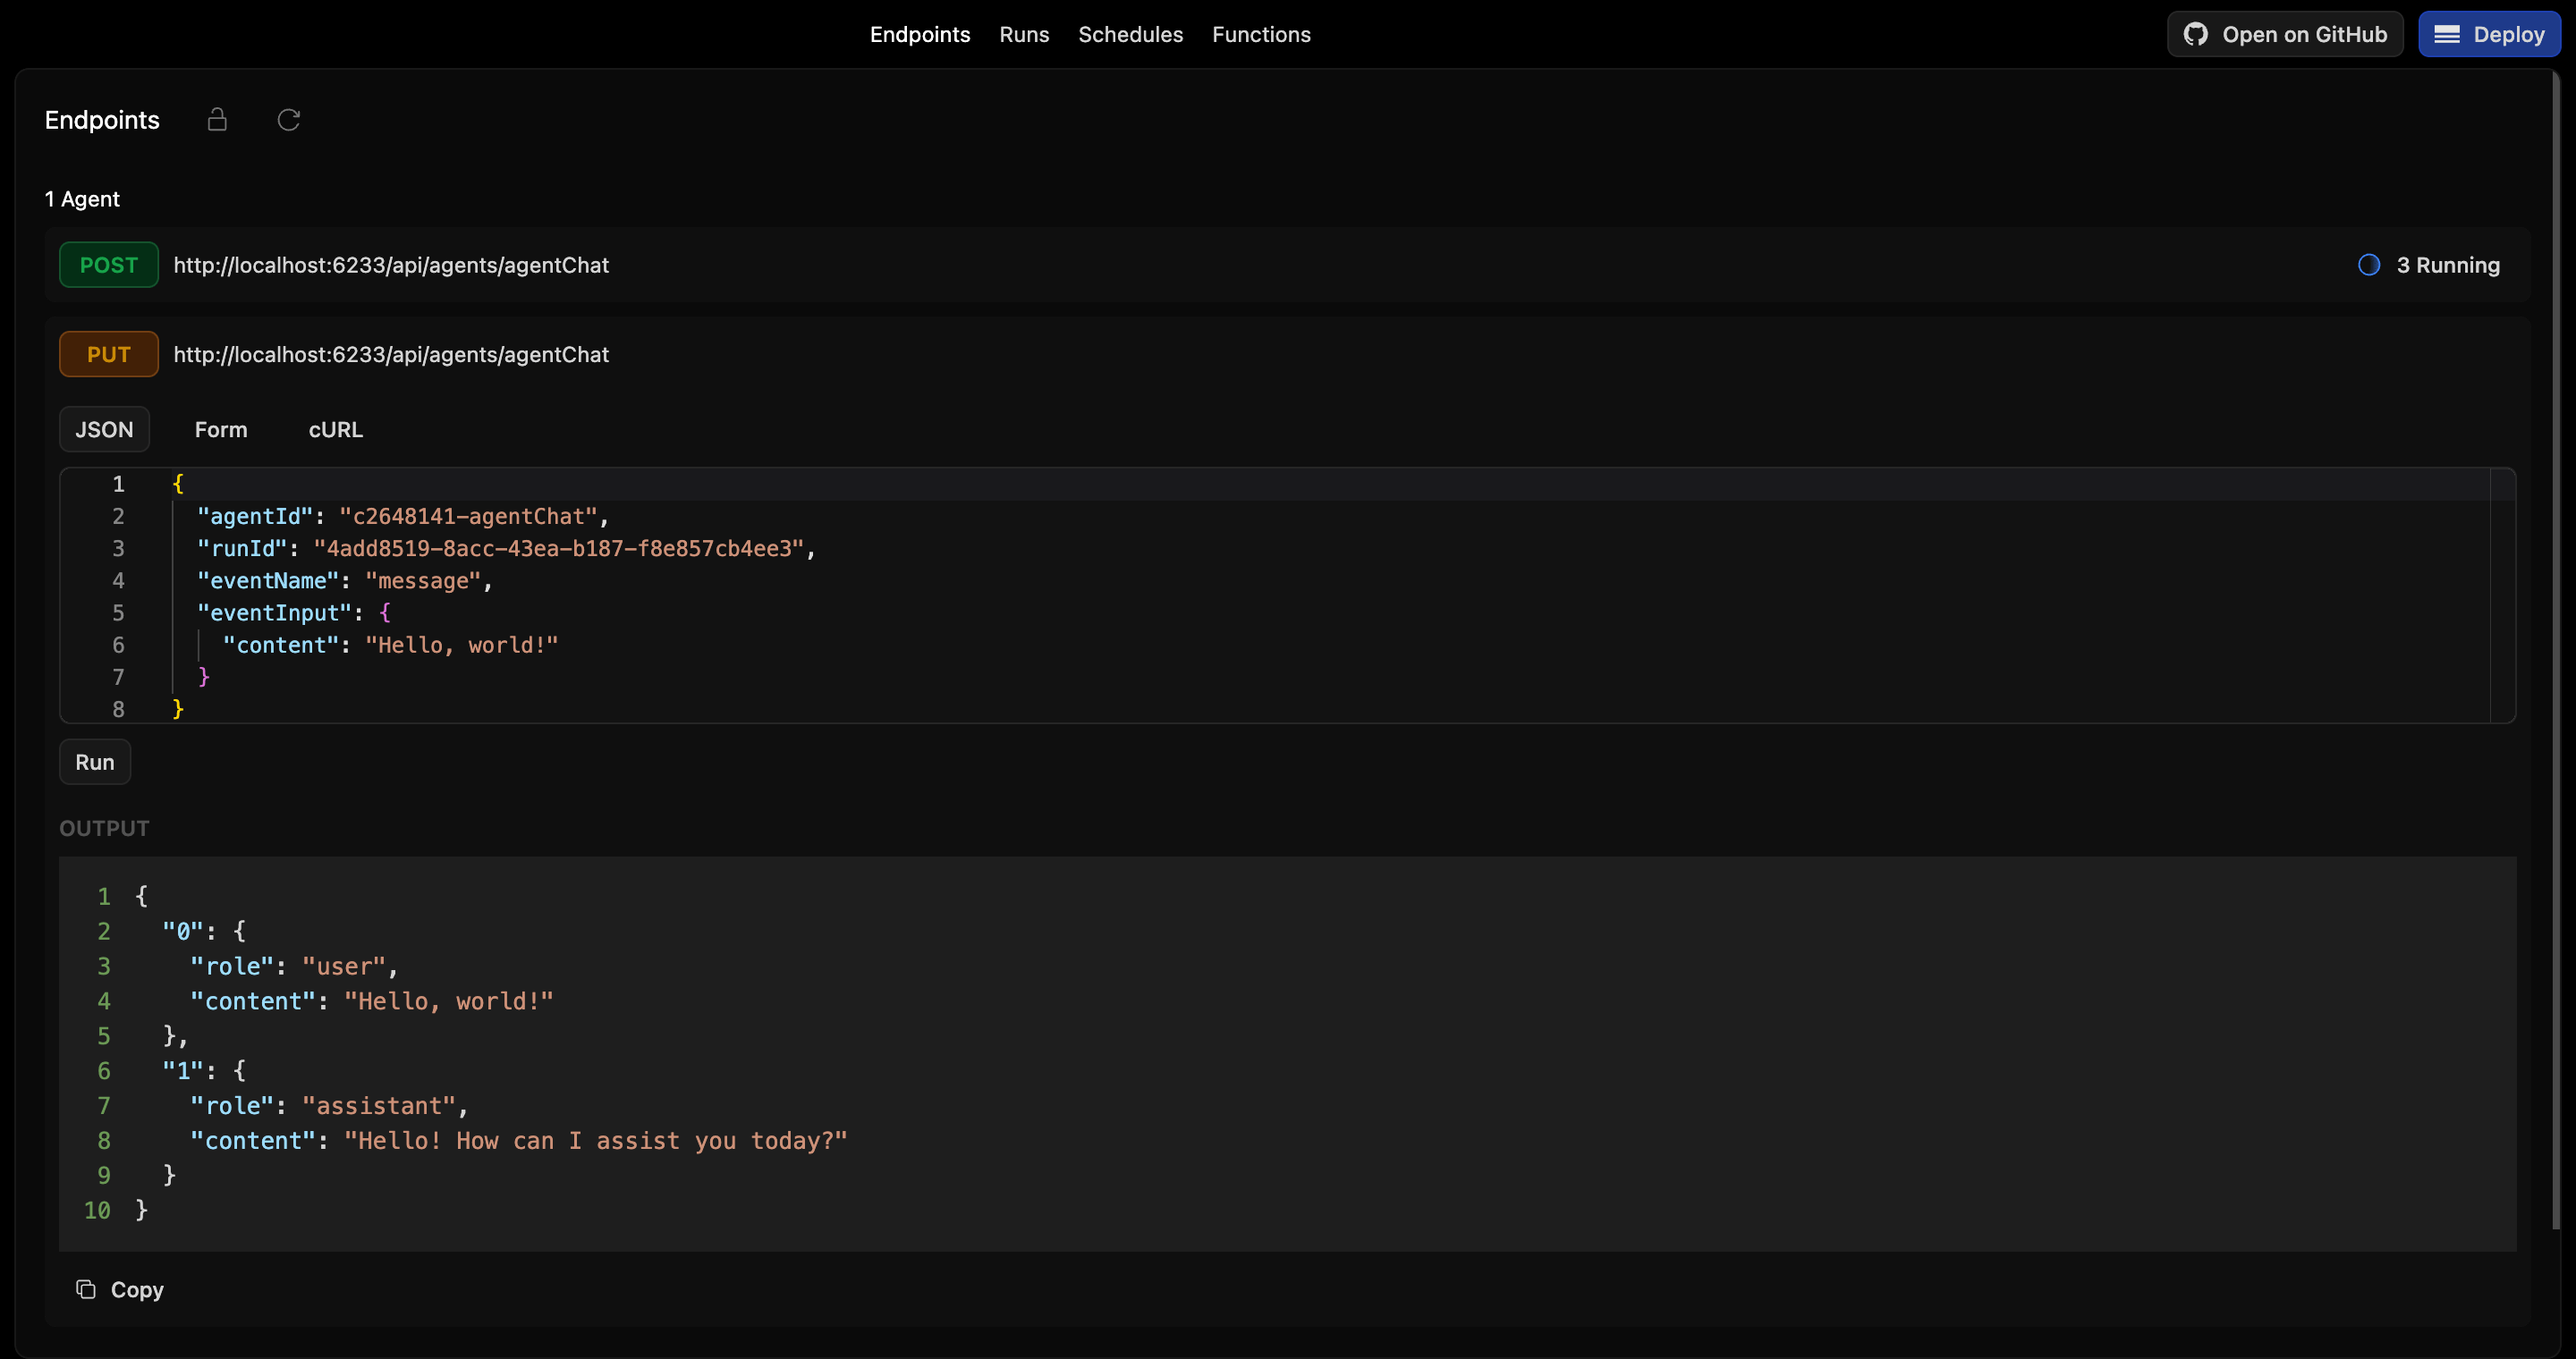
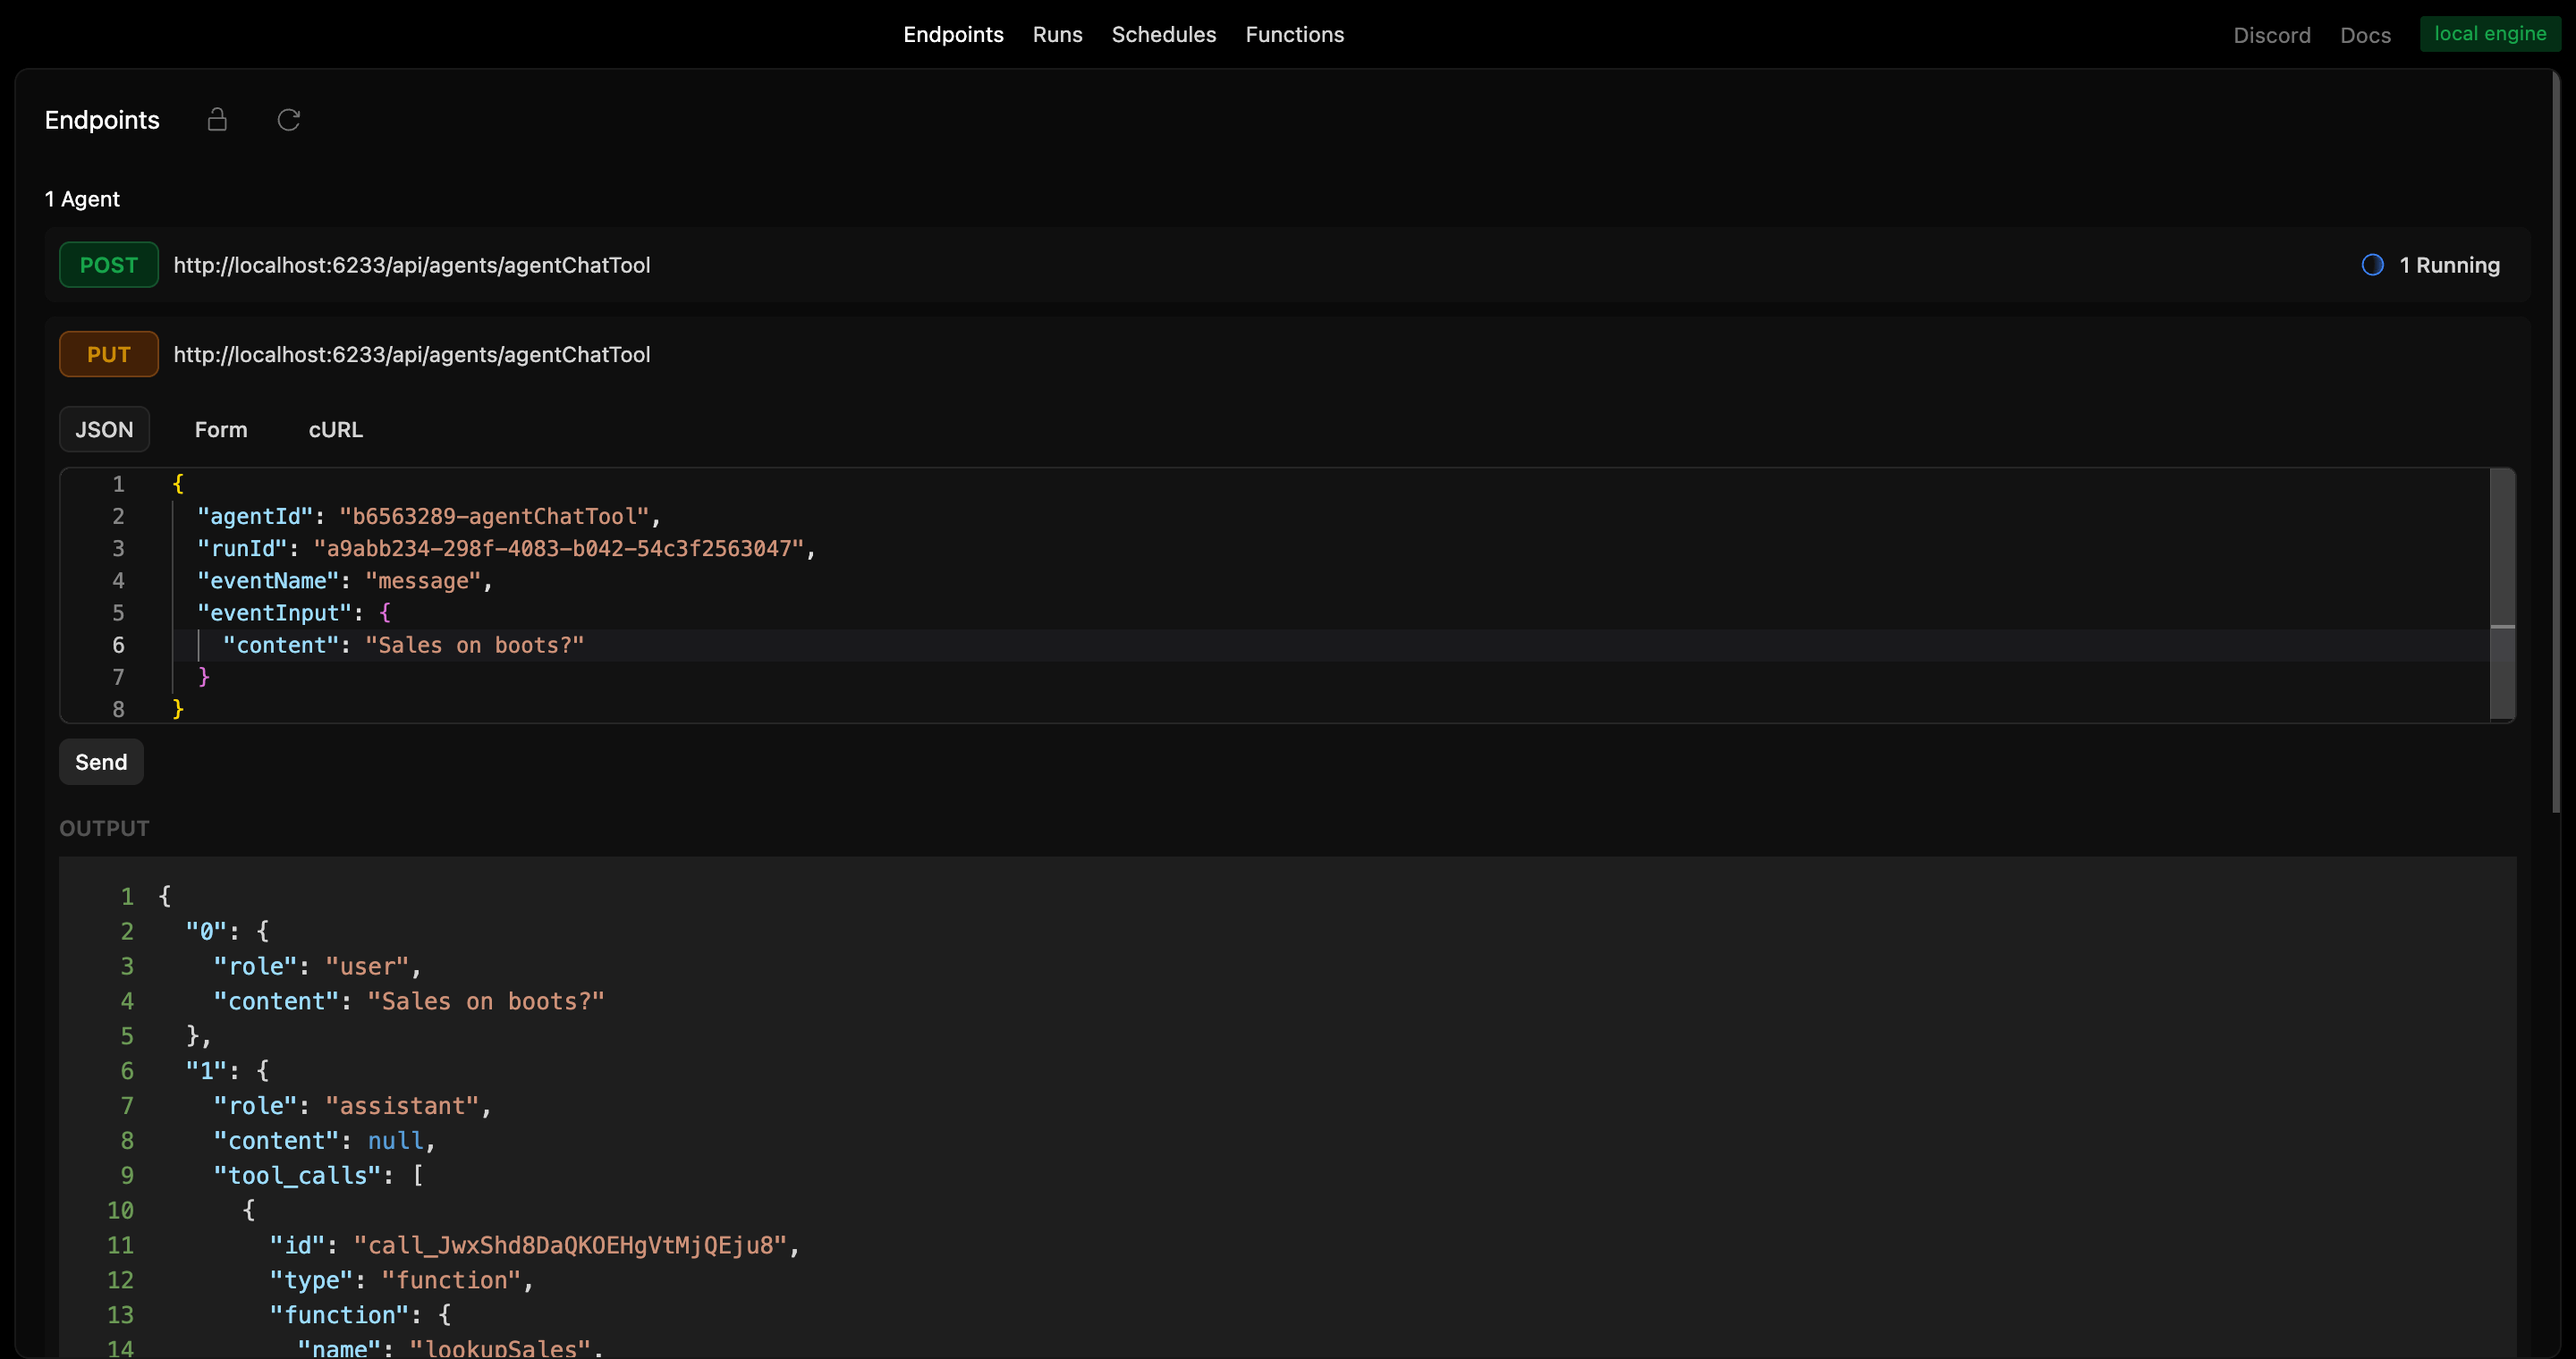
screenshots

diff --git a/agent-tool/scheduleAgent.ts b/agent-tool/scheduleAgent.ts
@@ -1,14 +1,14 @@
 import { client } from "./src/client";
-
+import { agentChatTool } from "./src/agents/agent";
 export type InputSchedule = {
   name: string;
 };
 
 async function scheduleAgent(input: InputSchedule) {
   try {
-    const agentId = `${Date.now()}-AgentChat`;
+    const agentId = `${Date.now()}-${agentChatTool.name}`;
     const runId = await client.scheduleAgent({
-      agentName: "agentChat",
+      agentName: agentChatTool.name,
       agentId,
       input,
     });

diff --git a/agent-tool/eventAgent.ts b/agent-tool/eventAgent.ts
@@ -10,7 +10,7 @@ async function eventAgent(input: EventInput) {
     await client.sendAgentEvent({
       event: {
         name: "message",
-        input: { content: "Tell me a joke" },
+        input: { content: "Sales on boots?" },
       },
       agent: {
         agentId: input.agentId,

diff --git a/agent-tool/src/functions/llmChat.ts b/agent-tool/src/functions/llmChat.ts
@@ -25,7 +25,7 @@ export type OpenAIChatInput = {
 
 export const llmChat = async ({
   systemContent = "",
-  model = "deepseek-chat",
+  model = "gpt-4o-mini",
   messages,
   tools,
 }: OpenAIChatInput): Promise<ChatCompletionMessage> => {

diff --git a/agent-tool/readme.md b/agent-tool/readme.md
@@ -36,17 +36,17 @@ You can run agents from the UI by clicking the "Run" button.
 
 You can run agents from the API by using the generated endpoint:
 
-`POST http://localhost:6233/api/agents/agentChat`
+`POST http://localhost:6233/api/agents/agentChatTool`
 
 ### from any client
 
 You can run agents with any client connected to Restack, for example:
 
 ```bash
-npm schedule-agent
+npm run schedule
 ```
 
-executes `scheduleAgent.ts` which will connect to Restack and execute the `agentChat` agent.
+executes `scheduleAgent.ts` which will connect to Restack and execute the `agentChatTool` agent.
 
 ## Send events to the Agent
 
@@ -64,14 +64,14 @@ And see the events in the run:
 
 You can send events to the agent by using the following endpoint:
 
-`PUT http://localhost:6233/api/agents/AgentChat/:agentId/:runId`
+`PUT http://localhost:6233/api/agents/agentChatTool/:agentId/:runId`
 
 with the payload:
 
 ```json
 {
   "eventName": "message",
-  "eventInput": { "content": "tell me another joke" }
+  "eventInput": { "content": "Sales on boots?" }
 }
 ```
 
@@ -94,7 +94,7 @@ You can send event to the agent with any client connected to Restack, for exampl
 Modify agentId and runId in eventAgent.ts and then run:
 
 ```bash
-pnpm event-agent
+npm run event
 ```
 
 It will connect to Restack and send 2 events to the agent, one to generate another agent and another one to end the conversation.
